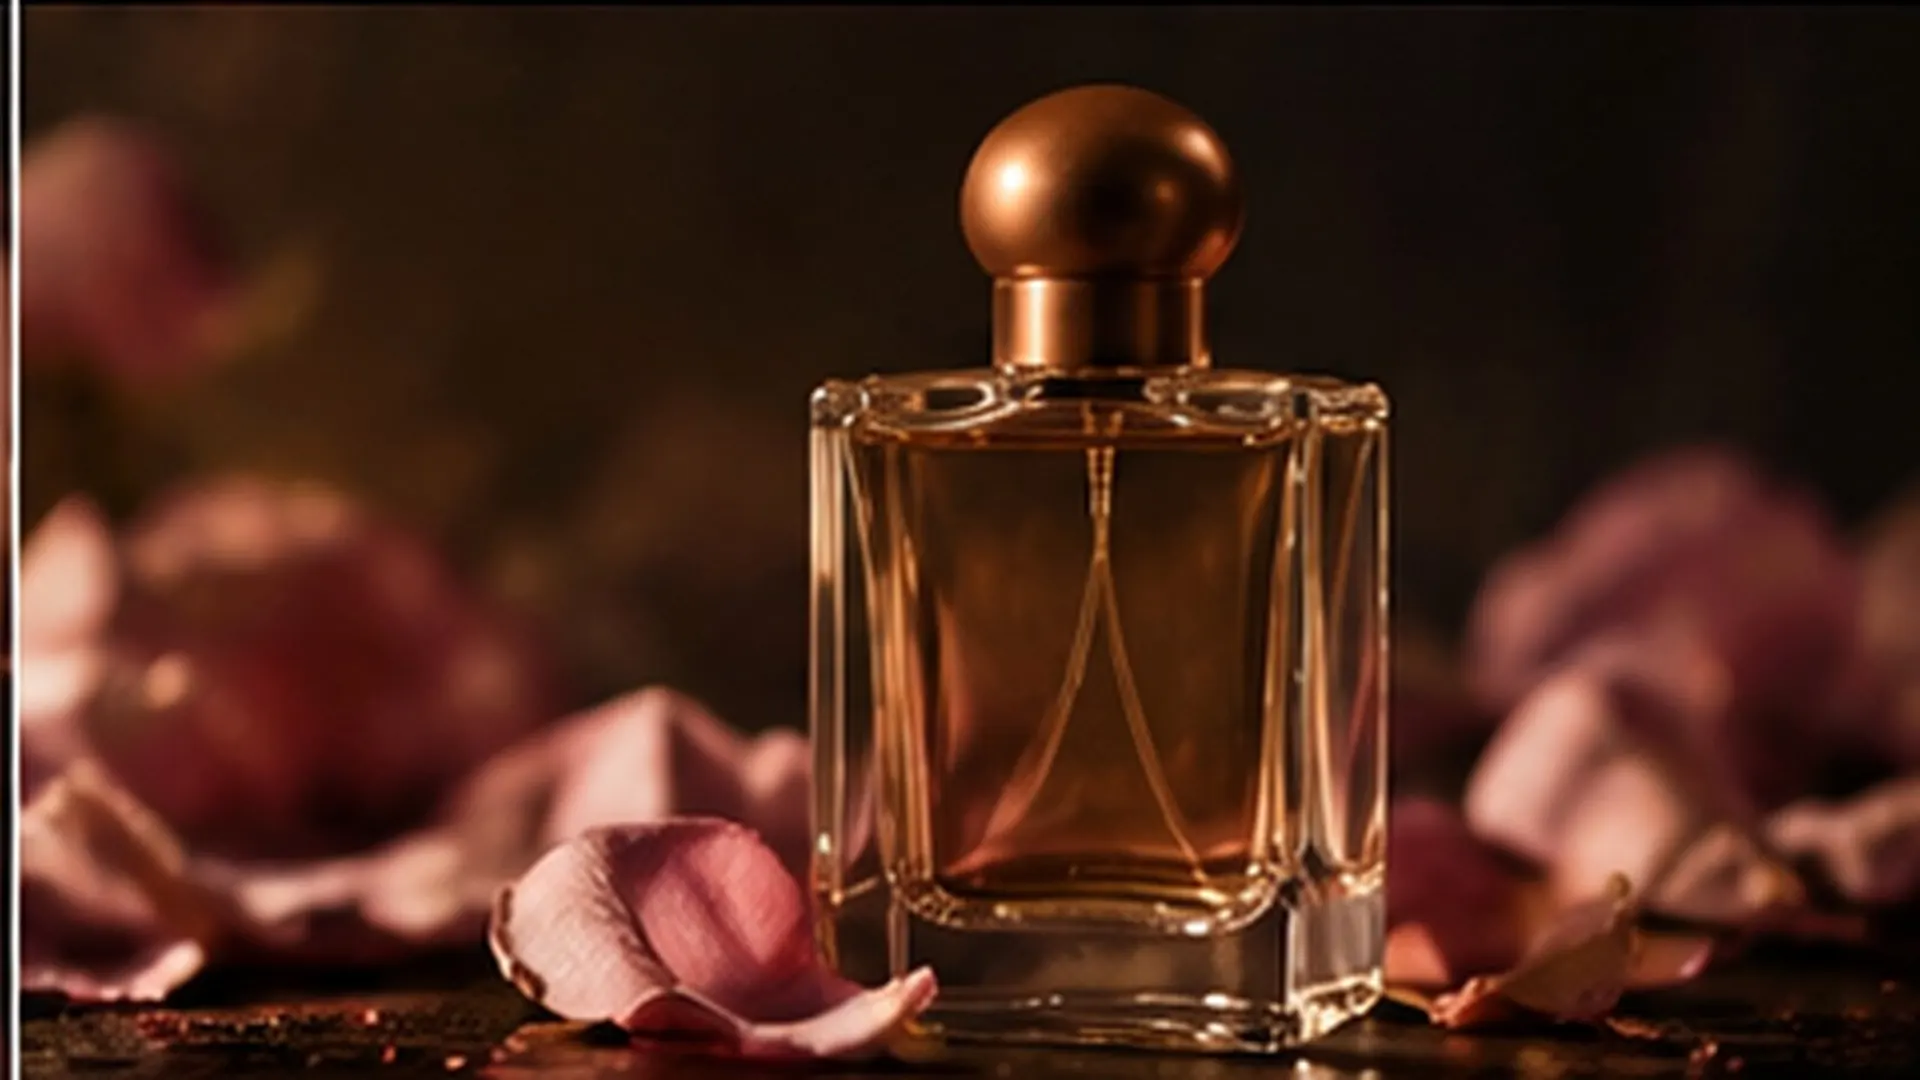
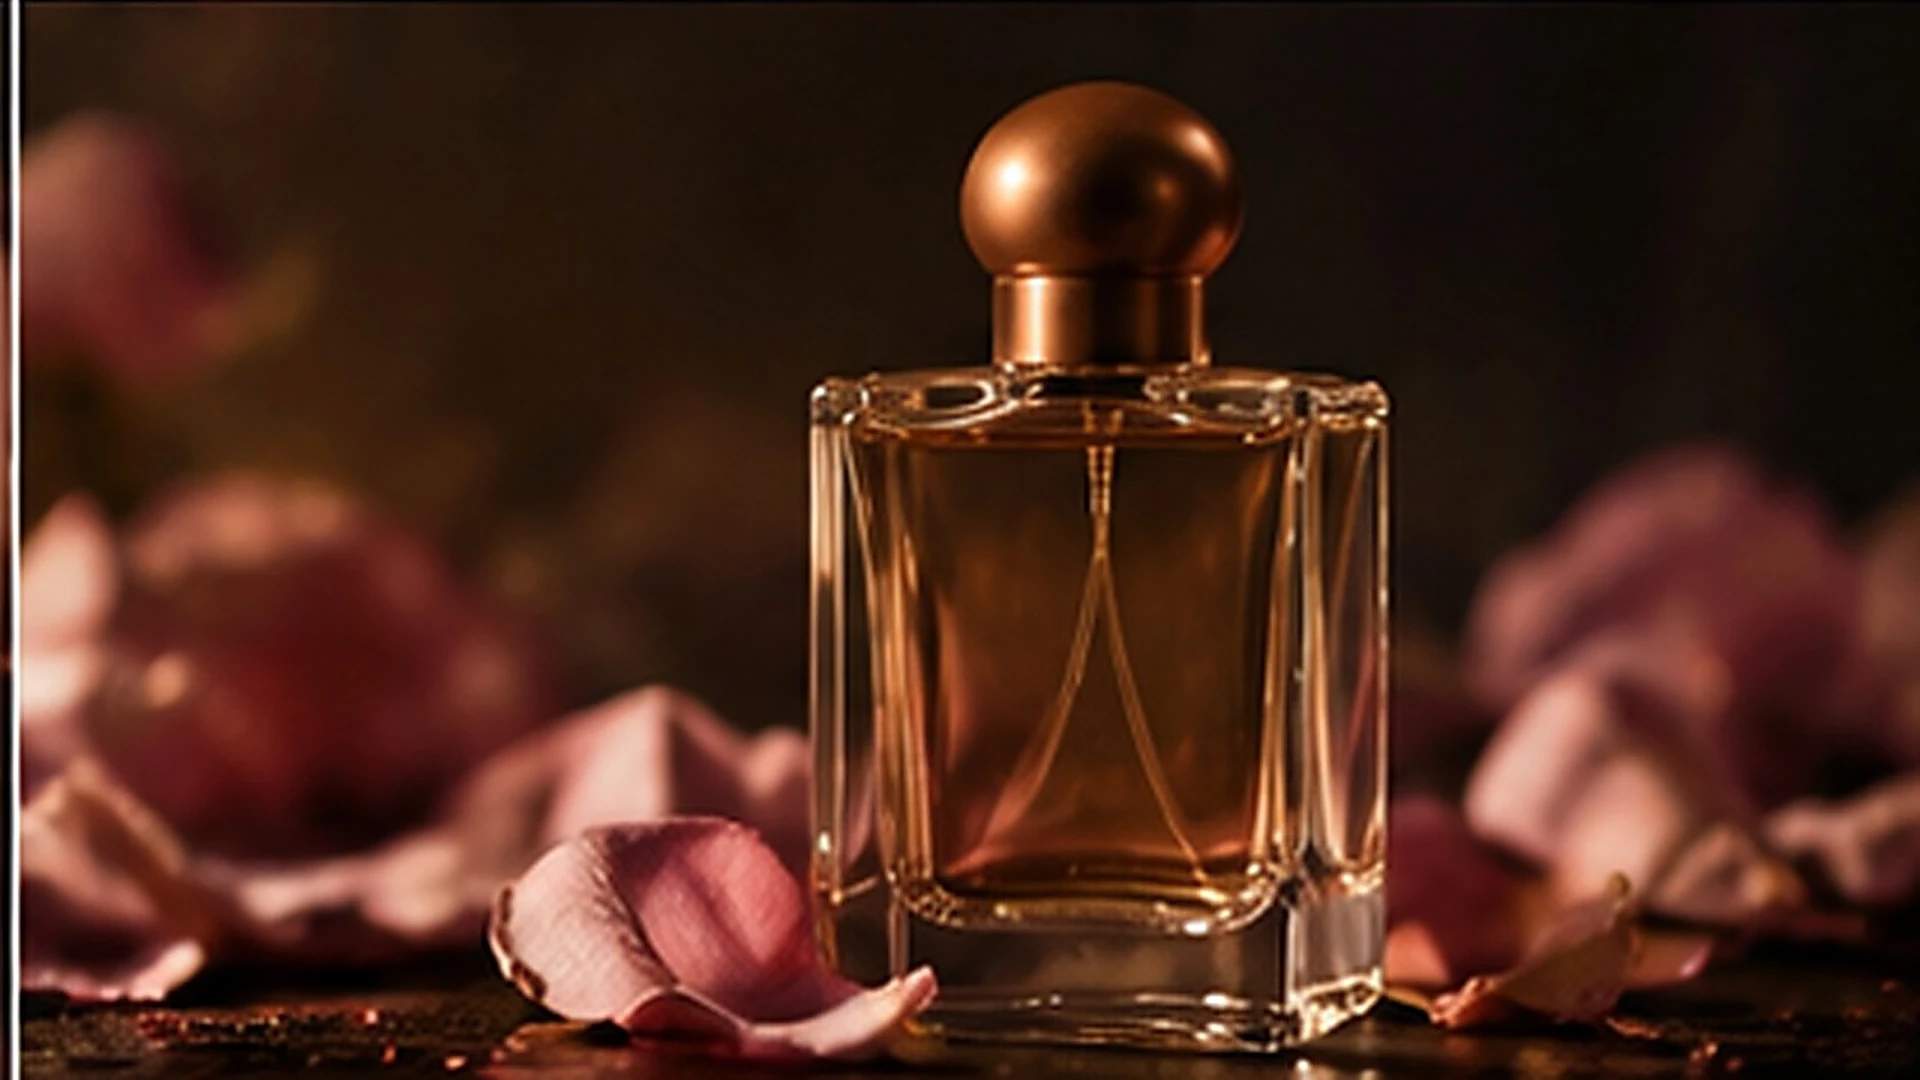
Petals at the size of the rose they came off, and the copper back
PETALS

They were 4.6 to 7 vmin — 41 to 63px against a bloom filling 900px of
the frame, so they read as confetti rather than as petals off that rose.
They are 12.5 to 21 vmin now, 115 to 210px, and they let go from five
different places on the bloom instead of all from its heart.

Act 4 gets a fall of its own, which is what the live page already does
with its nine real frames: six petals down past the bottle, each with a
depth — the small, dim, slightly out-of-focus ones read as falling
behind it, the large sharp ones as falling in front. A flat layer with
three variables in it looks like a room.

(The @media rule that set a smaller petal on a phone had never done
anything: the player writes --sz inline, and an inline custom property
beats a stylesheet one. It is gone. vmin was already doing the work —
on a phone it resolves to the width, which is also what the rose fills,
so the ratio holds at 0.18 either way.)

THE STILL

Every frame in the motion pack is 1280 x 720. All sixty-four of them.
That is the ceiling and nothing can lift it — but most of what was there
was being thrown away: the first pass enlarged to 1920 x 1080 and then
wrote WebP at quality 78, so the quantiser spent its bytes smoothing
interpolated gradient and the copper went to mush.

Now it resizes once with LANCZOS, puts a real unsharp mask over the
result, and writes at quality 90. Measured as the variance of the
Laplacian on the same 1920 x 1080 grid, the still goes from 11.4 to 15.8
[…]

diff --git a/assets/hero-film.js b/assets/hero-film.js
@@ -69,10 +69,14 @@ function petal(from, to, opts = {}) {
   p.style.setProperty('--dy', (to[1] - from[1]) * 100 + 'vh');
   p.style.setProperty('--r0', (opts.r0 ?? 0) + 'deg');
   p.style.setProperty('--r1', (opts.r1 ?? 200) + 'deg');
-  p.style.setProperty('--sz', (opts.size ?? 8) + 'vmin');
+  p.style.setProperty('--sz', (opts.size ?? 15) + 'vmin');
   p.style.setProperty('--d', (opts.delay ?? 0) + 'ms');
   p.style.setProperty('--t', (opts.dur ?? 5200) + 'ms');
   p.style.setProperty('--op', opts.opacity ?? 0.92);
+  /* depth: the ones further back are smaller, dimmer and a little out
+     of focus, which is what puts them behind the subject rather than
+     in front of it */
+  if (opts.blur) p.style.setProperty('--bl', opts.blur + 'px');
   return p;
 }
 
@@ -110,12 +114,18 @@ function drop(from, fall, delay) {
 function populate(fx, act) {
   if (act.n === 1) {
     const [rx, ry] = act.rose;
-    [[0, 6.4, -14, 150], [700, 5.2, 8, -170], [1500, 7.0, -4, 210],
-     [2300, 4.6, 16, -140], [3100, 5.8, -20, 190]
-    ].forEach(([delay, size, r0, r1], i) => {
+    /* The rose fills most of the frame, so a petal off it is a hand's
+       width on screen, not a confetto. delay, size, start angle, end
+       angle, and where on the bloom it lets go. */
+    [[0,    18.5, -14,  150, -0.06,  0.02],
+     [900,  14.0,   8, -170,  0.06,  0.10],
+     [1900, 21.0,  -4,  210, -0.14,  0.14],
+     [2800, 12.5,  16, -140,  0.13,  0.04],
+     [3700, 16.0, -20,  190, -0.01,  0.18]
+    ].forEach(([delay, size, r0, r1, ox, oy], i) => {
       fx.append(petal(
-        [rx - 0.02 + i * 0.012, ry + 0.04 + i * 0.02],
-        [rx - 0.30 - i * 0.05, 1.12],
+        [rx + ox, ry + oy],
+        [rx + ox - 0.26 - i * 0.06, 1.18],
         { delay, size, r0, r1, dur: 5600 + i * 420, sprite: i % PETALS.length }
       ));
     });
@@ -124,8 +134,8 @@ function populate(fx, act) {
   if (act.n === 2) {
     act.land.forEach(([lx, ly], i) => {
       const t = 300 + i * 1500;
-      fx.append(petal([lx + 0.05, -0.12], [lx, ly - 0.01], {
-        delay: t, size: 6.2, r0: -18, r1: 26, dur: 1500, sprite: i + 2
+      fx.append(petal([lx + 0.05, -0.16], [lx, ly - 0.01], {
+        delay: t, size: 13.5, r0: -18, r1: 26, dur: 1500, sprite: i + 2
       }));
       fx.append(ripple([lx, ly], t + 1450, 14));
       fx.append(ripple([lx, ly], t + 1850, 22));
@@ -142,12 +152,22 @@ function populate(fx, act) {
 
   if (act.n === 4) {
     fx.append(drop([act.neck[0], act.neck[1] - 0.16], 13, 600));
-    fx.append(petal([1.06, 0.18], [-0.10, 0.62], {
-      delay: 400, size: 5.4, r0: 10, r1: -160, dur: 7200, sprite: 0, opacity: 0.6
-    }));
-    fx.append(petal([-0.08, 0.74], [1.05, 0.42], {
-      delay: 2200, size: 4.2, r0: -30, r1: 120, dur: 7600, sprite: 3, opacity: 0.45
-    }));
+    /* x, delay, size, start angle, end angle, how far it drifts, opacity,
+       blur. The small, dim, soft ones read as falling behind the bottle;
+       the large, bright, sharp ones as falling in front of it, which is
+       what makes a flat layer look like a room with depth in it. */
+    [[0.14,  200,  19.0, -16,  170, -0.10, 0.95, 0  ],
+     [0.33, 1500,  10.0,  22, -130,  0.07, 0.52, 1.6],
+     [0.52,  800,  13.0,  -8,  150, -0.06, 0.66, 1.0],
+     [0.71, 2400,  21.0,  12, -180,  0.09, 0.92, 0  ],
+     [0.88, 1100,   9.0, -24,  120, -0.05, 0.46, 2.0],
+     [0.62, 3300,  15.5,   4,  200,  0.12, 0.74, 0.6]
+    ].forEach(([x, delay, size, r0, r1, dx, opacity, blur], i) => {
+      fx.append(petal([x, -0.22], [x + dx, 1.22], {
+        delay, size, r0, r1, opacity, blur,
+        dur: 7600 - size * 90, sprite: i % PETALS.length
+      }));
+    });
   }
 }
 

diff --git a/assets/hero-film.css b/assets/hero-film.css
@@ -28,7 +28,7 @@
 .fh-scene.on{opacity:1}
 
 /* ── the plate, and the camera on it ───────────────────────────── */
-.fh-plate{position:absolute;inset:-6% -6%;width:112%;height:112%;
+.fh-plate{position:absolute;inset:-4% -4%;width:108%;height:108%;
   display:block;object-fit:cover;object-position:50% 50%;
   transform:translateZ(0);backface-visibility:hidden}
 .fh-scene.on .fh-plate{animation:fh-cam 22s cubic-bezier(.5,0,.5,1) infinite alternate}
@@ -39,12 +39,12 @@
 
 /* a drift across and a breath of a dolly, a different one each act */
 @keyframes fh-cam-1{from{transform:translate3d(1.4%,0,0) scale(1.01)}
-  to{transform:translate3d(-1.2%,-.8%,0) scale(1.045)}}
-@keyframes fh-cam-2{from{transform:translate3d(-1.6%,-.6%,0) scale(1.045)}
+  to{transform:translate3d(-1.2%,-.8%,0) scale(1.03)}}
+@keyframes fh-cam-2{from{transform:translate3d(-1.6%,-.6%,0) scale(1.03)}
   to{transform:translate3d(1.2%,.4%,0) scale(1.01)}}
 @keyframes fh-cam-3{from{transform:translate3d(-1.2%,.6%,0) scale(1.02)}
-  to{transform:translate3d(1.6%,-.6%,0) scale(1.055)}}
-@keyframes fh-cam-4{from{transform:translate3d(1.2%,.5%,0) scale(1.05)}
+  to{transform:translate3d(1.6%,-.6%,0) scale(1.035)}}
+@keyframes fh-cam-4{from{transform:translate3d(1.2%,.5%,0) scale(1.03)}
   to{transform:translate3d(-1.0%,-.5%,0) scale(1.012)}}
 
 .fh-fx{position:absolute;inset:0;z-index:1;pointer-events:none;overflow:hidden}
@@ -52,7 +52,7 @@
 /* ── a petal: it lets go, turns as it goes, and is gone ─────────── */
 .fh-petal{position:absolute;left:var(--x0);top:var(--y0);
   width:var(--sz);height:auto;display:block;
-  transform-origin:50% 40%;opacity:0;
+  transform-origin:50% 40%;opacity:0;filter:blur(var(--bl,0));
   will-change:transform,opacity;
   animation:fh-fall var(--t) cubic-bezier(.36,.06,.5,1) var(--d) infinite both}
 @keyframes fh-fall{
@@ -132,7 +132,7 @@
 @media (max-width:899px){
   .filmhero{align-items:end;
     padding:clamp(7rem,16vh,10rem) var(--pad) clamp(2.6rem,7vh,4rem)}
-  .fh-plate{inset:-4% -4%;width:108%;height:108%}
+  .fh-plate{inset:-3% -3%;width:106%;height:106%}
   /* the words sit in the dark under the picture, so the scrim turns */
   /* far enough up the screen to carry the eyebrow, which is gold and
      would otherwise be read against a lit petal; the picture still
@@ -142,7 +142,6 @@
       rgba(10,7,5,.8) 50%,rgba(10,7,5,.44) 66%,rgba(10,7,5,.1) 86%,
       rgba(10,7,5,0) 100%),
     linear-gradient(180deg,rgba(10,7,5,.74) 0%,transparent 22%)}
-  .fh-petal{--sz:7vmin}
 }
 
 /* ── nobody is shown anything moving who asked not to be ───────── */

diff --git a/tools/filmplates.py b/tools/filmplates.py
@@ -16,15 +16,29 @@ thirds of its width — so each act names its own frame and its own crop
 for a phone, chosen so the subject survives the window rather than being
 cut by it.
 
+ON SHARPNESS. Every frame in the motion pack is 1280 x 720. That is the
+ceiling: no detail can be recovered that was not in the file. What CAN be
+thrown away is most of it, and the first pass did — it enlarged to
+1920 x 1080 and then wrote WebP at quality 78, so the quantiser spent its
+bytes on interpolated gradient and smeared the copper. The pass now
+resizes once with LANCZOS, puts a real unsharp mask over the result, and
+writes at quality 90. A phone's frame is a 405 x 720 window of a 720p
+file, which is the worst case in the whole set, so it is enlarged 2x and
+no further — an exact factor resamples cleanly, and CSS covers the rest.
+
+If the full-resolution originals turn up, drop them in and run this
+again; nothing else needs to change.
+
     python3 tools/filmplates.py <folder-of-keyframes>
 """
-from PIL import Image
+from PIL import Image, ImageFilter
 import os
 import sys
 
 OUT = '/home/user/Maisondestefanie/assets/hero'
 WIDE = (1920, 1080)
-TALL = (1080, 1920)
+TALL = (810, 1440)
+QUALITY = 90
 
 # act, the wide frame, the phone's frame, and where the phone's window
 # sits across it — the rose at 0.68, the bottle at 0.54, and for the bowl
@@ -35,6 +49,36 @@ PLATES = [
     (3, 'keyframe-09.jpg', 'keyframe-10.jpg', 0.42, 0.50),
     (4, 'keyframe-16.jpg', 'keyframe-16.jpg', 0.54, 0.52),
 ]
+
+
+def deframe(im, limit=6):
+    """A few of the frames carry two or three rows of pure black along an
+    edge. Enlarged they become a hairline across the screen."""
+    import numpy as np
+    a = np.asarray(im.convert('L')).astype(int)
+    col, row = a.mean(axis=0), a.mean(axis=1)
+
+    def run(v, forward):
+        n = 0
+        for i in (range(len(v)) if forward else range(len(v) - 1, -1, -1)):
+            if v[i] < limit:
+                n += 1
+            else:
+                break
+        return n
+
+    l, r = run(col, True), run(col, False)
+    t, b = run(row, True), run(row, False)
+    if l or r or t or b:
+        im = im.crop((l, t, im.width - r, im.height - b))
+    return im
+
+
+def sharpen(im):
+    """Enlarging is interpolation, and interpolation is a low-pass filter.
+    This puts the edge back — enough to read as the photograph it came
+    from, not so much that the copper picks up a halo."""
+    return im.filter(ImageFilter.UnsharpMask(radius=1.6, percent=118, threshold=3))
 
 
 def crop_to(im, size, cx, cy):
@@ -54,13 +98,13 @@ def crop_to(im, size, cx, cy):
 def main(folder):
     os.makedirs(OUT, exist_ok=True)
     for act, wide_src, tall_src, cx, cy in PLATES:
-        wide = Image.open(os.path.join(folder, wide_src)).convert('RGB')
-        tall = Image.open(os.path.join(folder, tall_src)).convert('RGB')
+        wide = deframe(Image.open(os.path.join(folder, wide_src)).convert('RGB'))
+        tall = deframe(Image.open(os.path.join(folder, tall_src)).convert('RGB'))
         for suffix, img, src in (
-                ('wide', wide.resize(WIDE, Image.LANCZOS), wide_src),
-                ('tall', crop_to(tall, TALL, cx, cy), tall_src)):
+                ('wide', sharpen(wide.resize(WIDE, Image.LANCZOS)), wide_src),
+                ('tall', sharpen(crop_to(tall, TALL, cx, cy)), tall_src)):
             p = os.path.join(OUT, f'plate-{act}-{suffix}.webp')
-            img.save(p, 'WEBP', quality=78, method=6)
+            img.save(p, 'WEBP', quality=QUALITY, method=6)
             print(f'  {os.path.basename(p):22} {img.size[0]}x{img.size[1]}  '
                   f'{os.path.getsize(p)//1024} KB   <- {src}')
 
